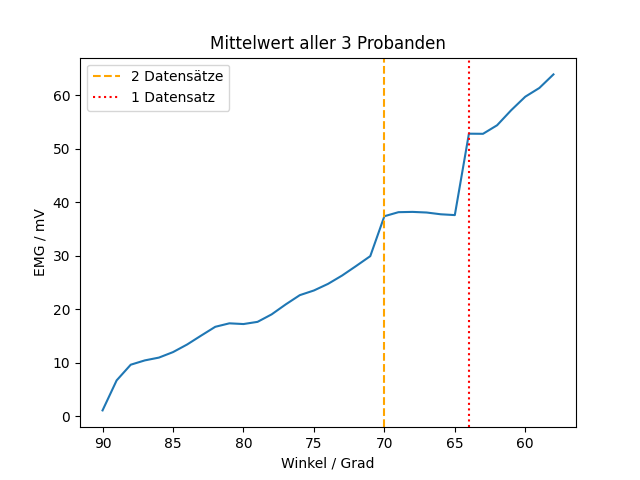
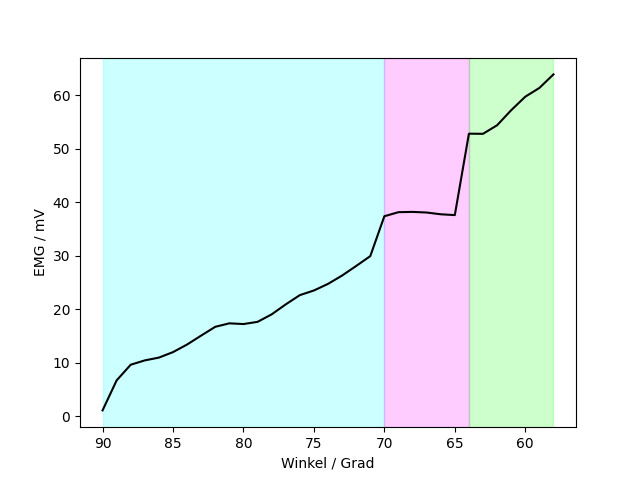
Schönerer Plot

diff --git a/main.py b/main.py
@@ -255,12 +255,14 @@ for person in range(3):
             path = os.path.join(directory, "result_angle_emg_avg_" + str(person + 1) + "_" + str(dataset + 1) + ".png")
 
             plt.figure()
-            plt.plot(angle_avg[person], emg_avg[person])
+            plt.plot(angle_avg[person], emg_avg[person], color="black")
+            plt.axvspan(90, angle_end[0], color='cyan', alpha=0.2)
+            plt.axvspan(angle_end[0], angle_end[1], color='magenta', alpha=0.2)
+            plt.axvspan(angle_end[1], angle_avg[person][len(angle_avg[person]) - 1], color='lime', alpha=0.2)
             plt.gca().invert_xaxis() # x-Achse mit abnehmenden Werten
-            plt.axvline(angle_end[0], color = "orange", linestyle = "dashed", label = "2 Datensätze")   
-            plt.axvline(angle_end[1], color = "red", linestyle = "dotted", label = "1 Datensatz")  
-            plt.legend(loc='upper left')
-            plt.title("Mittelwert Proband " + str(person + 1))
+            #plt.axvline(angle_end[0], color = "orange", linestyle = "dashed", label = "2 Datensätze")   
+            #plt.axvline(angle_end[1], color = "red", linestyle = "dotted", label = "1 Datensatz")  
+            #plt.legend(loc='upper left')
             plt.xlabel("Winkel / Grad")
             plt.ylabel("EMG / mV")
             plt.savefig(path)
@@ -276,12 +278,14 @@ for person in range(3):
         path = os.path.join(directory, "result_angle_emg_avg_all.png")
 
         plt.figure()
-        plt.plot(angle_avg_all, emg_avg_all)
+        plt.plot(angle_avg_all, emg_avg_all, color = "black")
+        plt.axvspan(90, angle_end_all[0], color='cyan', alpha=0.2)
+        plt.axvspan(angle_end_all[0], angle_end_all[1], color='magenta', alpha=0.2)
+        plt.axvspan(angle_end_all[1], angle_avg_all[len(emg_avg_all) - 1], color='lime', alpha=0.2)
         plt.gca().invert_xaxis() # x-Achse mit abnehmenden Werten
-        plt.axvline(angle_end_all[0], color = "orange", linestyle = "dashed", label = "2 Datensätze")   
-        plt.axvline(angle_end_all[1], color = "red", linestyle = "dotted", label = "1 Datensatz")   
-        plt.legend(loc='upper left')
-        plt.title("Mittelwert aller 3 Probanden")
+        #plt.axvline(angle_end_all[0], color = "orange", linestyle = "dashed", label = "2 Datensätze")   
+        #plt.axvline(angle_end_all[1], color = "red", linestyle = "dotted", label = "1 Datensatz")   
+        #plt.legend(loc='upper left')
         plt.xlabel("Winkel / Grad")
         plt.ylabel("EMG / mV")
         plt.savefig(path)
